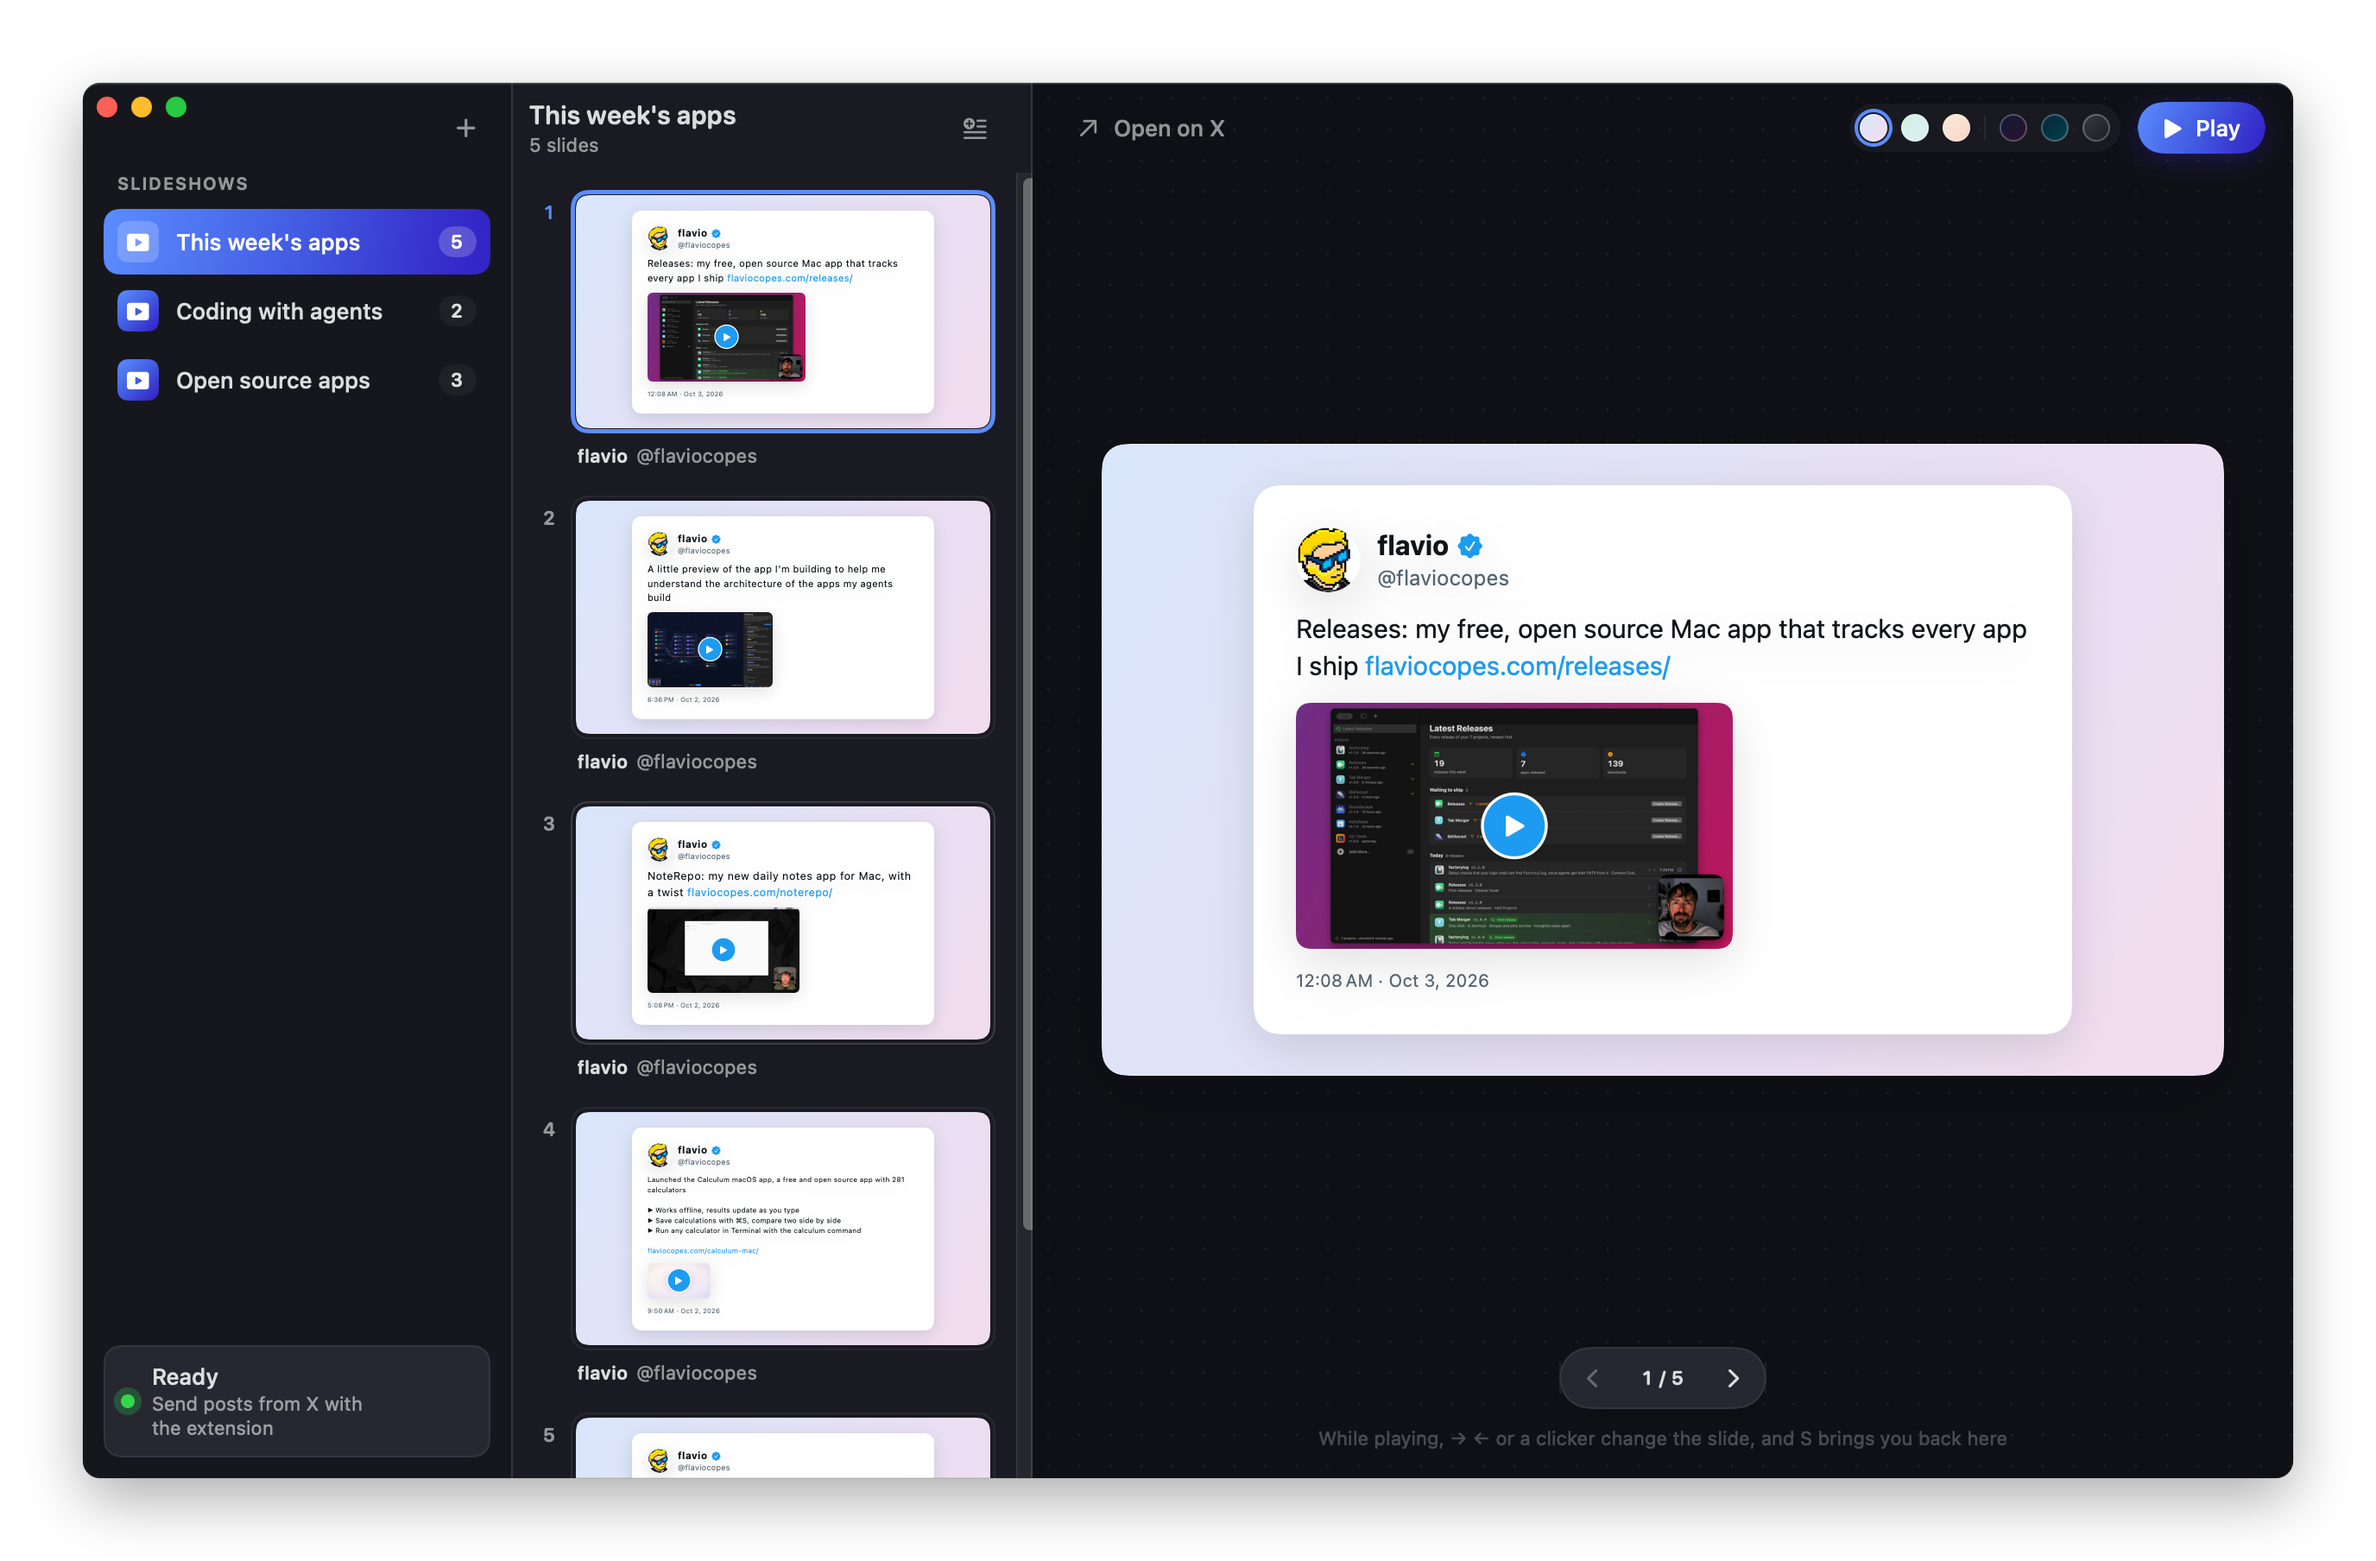
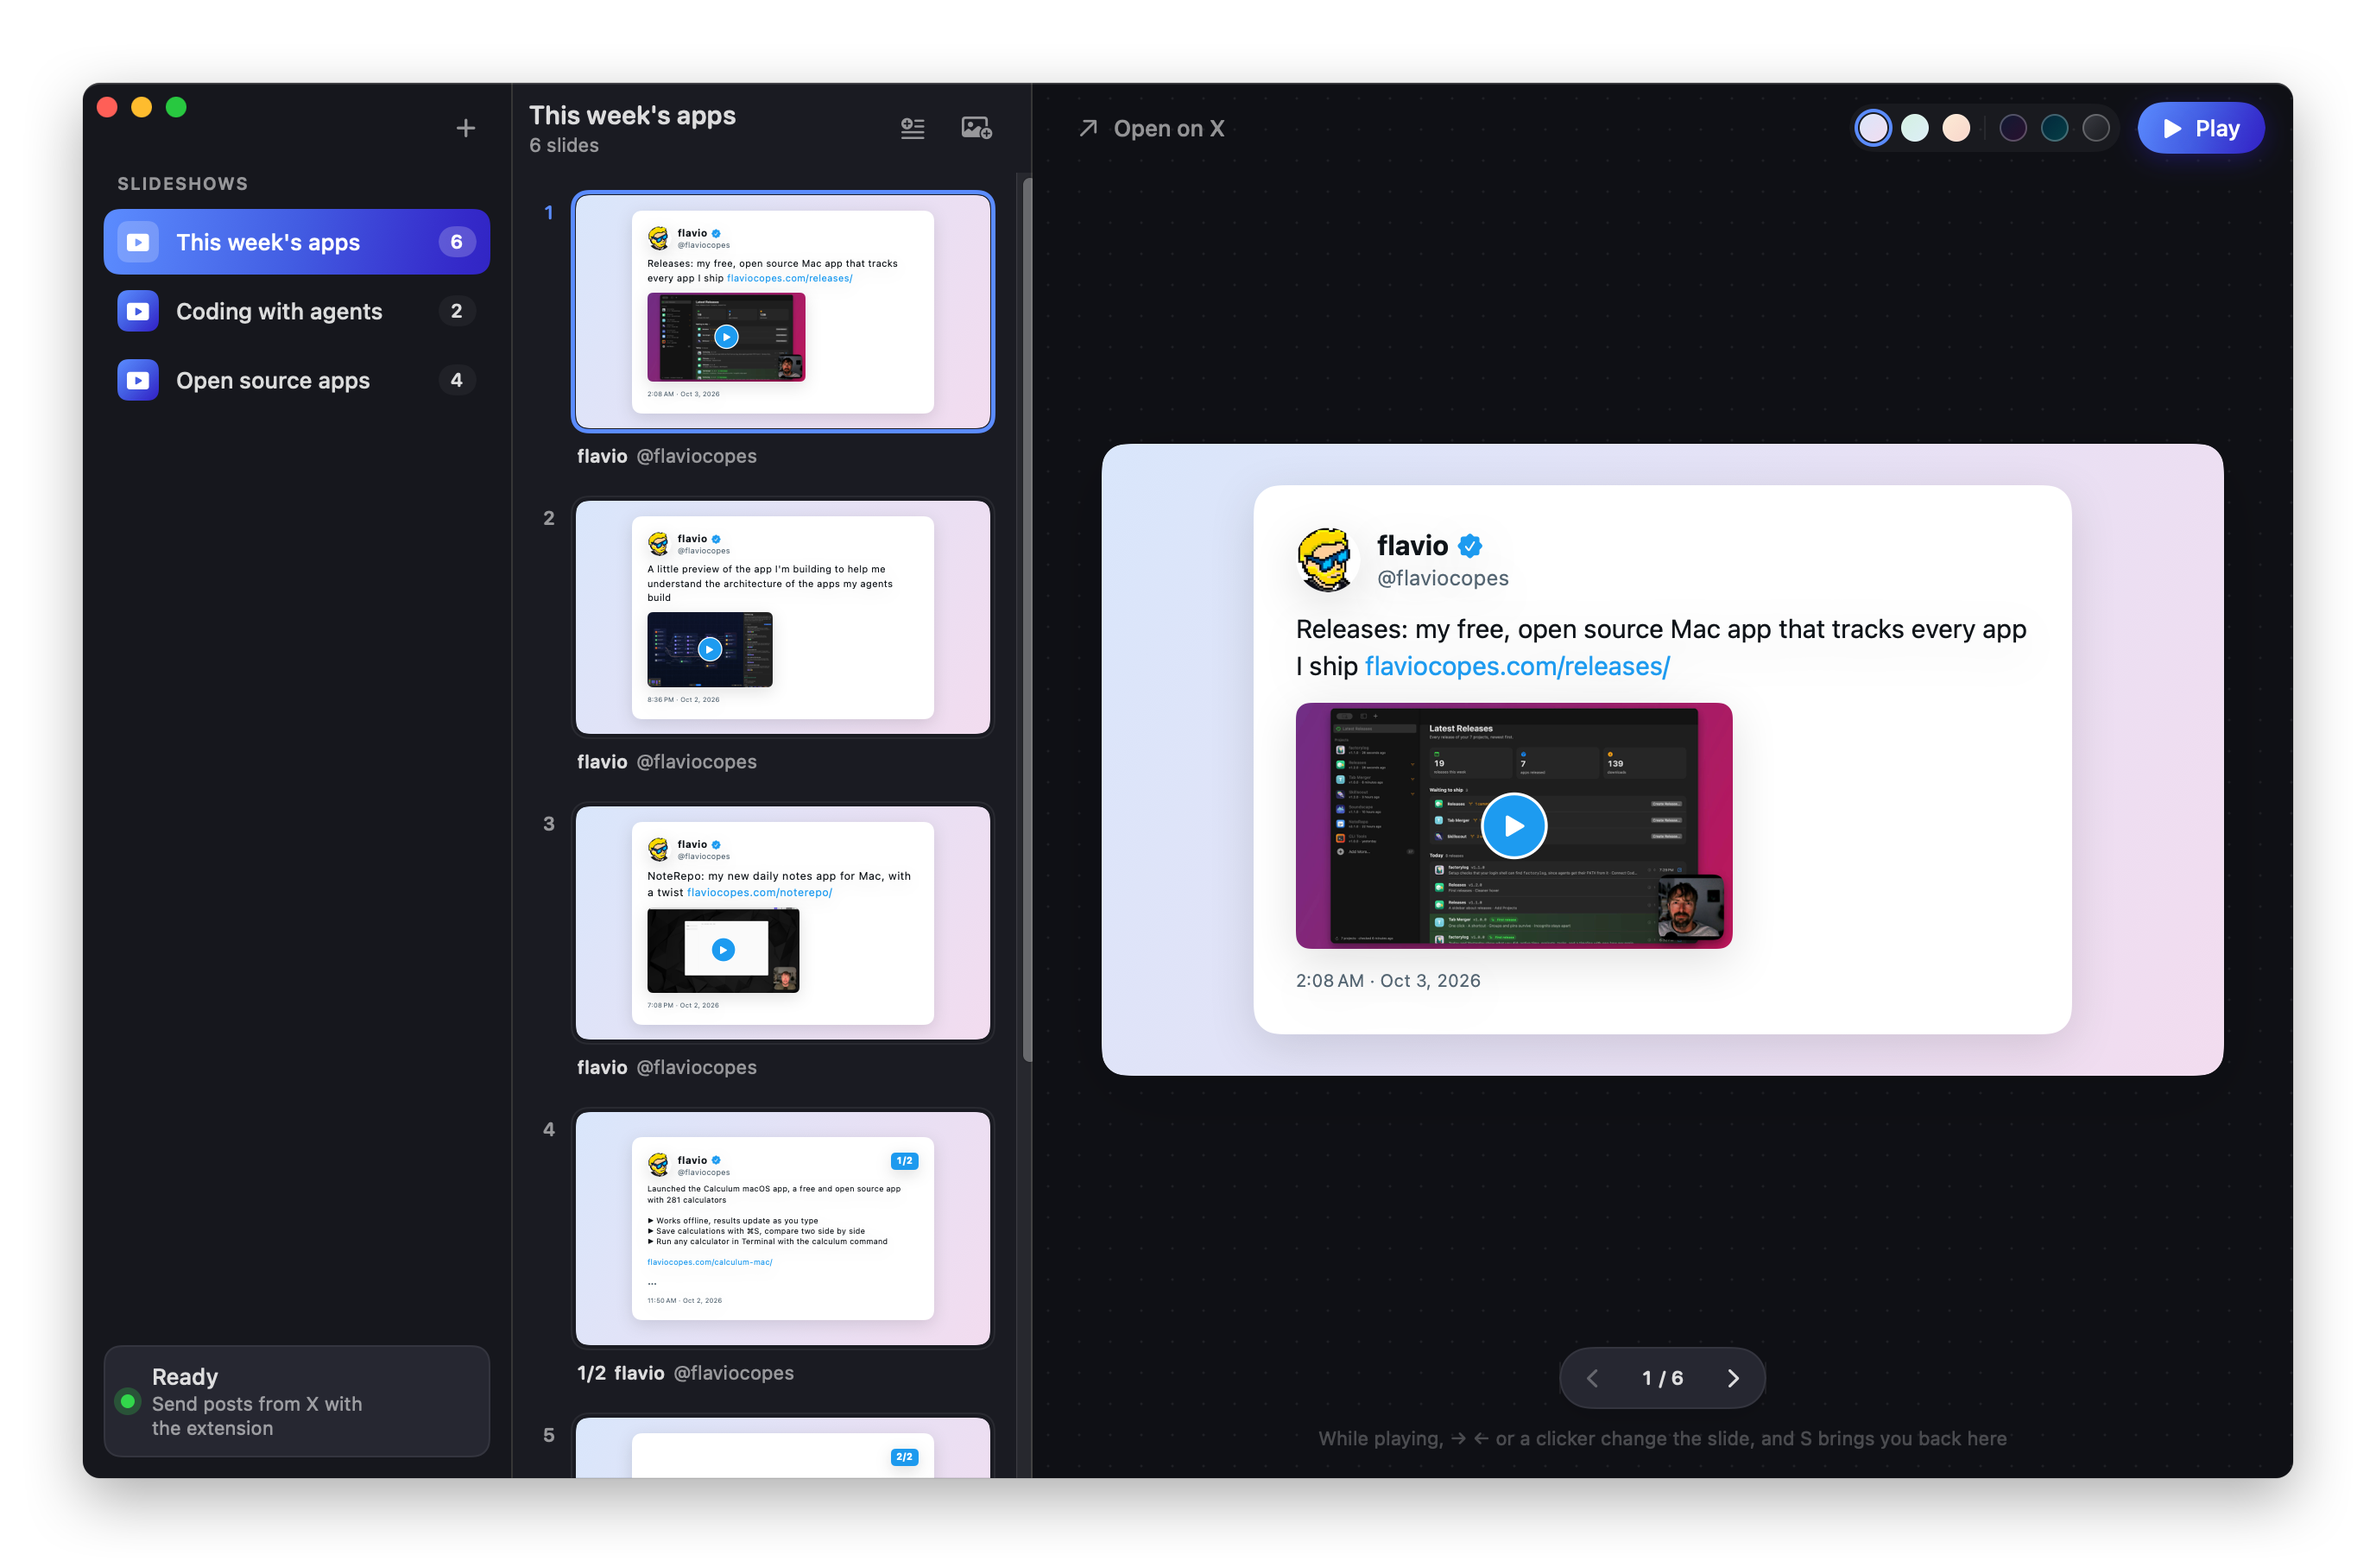
Release Postdeck 1.1.0

diff --git a/Sources/PostdeckCLI/Capabilities.swift b/Sources/PostdeckCLI/Capabilities.swift
@@ -47,6 +47,16 @@ extension Commands {
     ],
     changelog: [
       Manifest.Release(
+        version: "1.1.0",
+        date: "2026-10-07",
+        changes: [
+          "New postdeck command builds slideshows from posts, text and images, with six themes.",
+          "New capabilities command lists tasks, example commands and release history.",
+          "Long posts split into linked slides; moving or deleting a part acts on the whole post.",
+          "Text and image slides, an Up Next window, and restored Delete and arrow key navigation.",
+        ]
+      ),
+      Manifest.Release(
         version: "1.0.0",
         date: "2026-10-03",
         changes: [

diff --git a/Sources/PostdeckCore/Version.swift b/Sources/PostdeckCore/Version.swift
@@ -1,5 +1,5 @@
 public enum Postdeck {
-  public static let version = "1.0.0"
+  public static let version = "1.1.0"
 
   /// The extension posts to this port, so changing it means changing `extension/background.js` too.
   public static let port: UInt16 = 7678

diff --git a/README.md b/README.md
@@ -10,7 +10,7 @@ Watch the 30-second demo:
 
 ## Download
 
-Get `Postdeck-1.0.0.zip` from the [latest release](https://github.com/flaviocopes/postdeck/releases/latest) and unzip it. You get two things:
+Get `Postdeck-1.1.0.zip` from the [latest release](https://github.com/flaviocopes/postdeck/releases/latest) and unzip it. You get two things:
 
 - `Postdeck.app`, the Mac app. Drag it to your Applications folder. It runs on macOS 14 Sonoma or later, on Apple silicon and Intel Macs.
 - `Postdeck Extension`, the Chrome extension. Move this folder somewhere it can stay, like your Documents folder, because Chrome loads it from there.
@@ -129,11 +129,7 @@ To build the release zip, with the app and the extension, run:
 
 It builds a universal app in `dist/Postdeck.app` and zips it with the extension into `dist/`. With my Developer ID certificate in the keychain it signs and notarizes the app. Everywhere else it signs it ad hoc, so your copy is signed ad hoc. A copy you build yourself opens without a warning on your Mac.
 
-If you send it to another Mac, macOS says it "could not verify Postdeck is free of malware". Click **Done**, then go to **System Settings → Privacy & Security** and click **Open Anyway**, or remove the quarantine flag in Terminal:
-
-```sh
-xattr -dr com.apple.quarantine /Applications/Postdeck.app
-```
+If you send it to another Mac, macOS says it "could not verify Postdeck is free of malware". Click **Done**, then go to **System Settings → Privacy & Security** and click **Open Anyway**.
 
 ## Development
 
